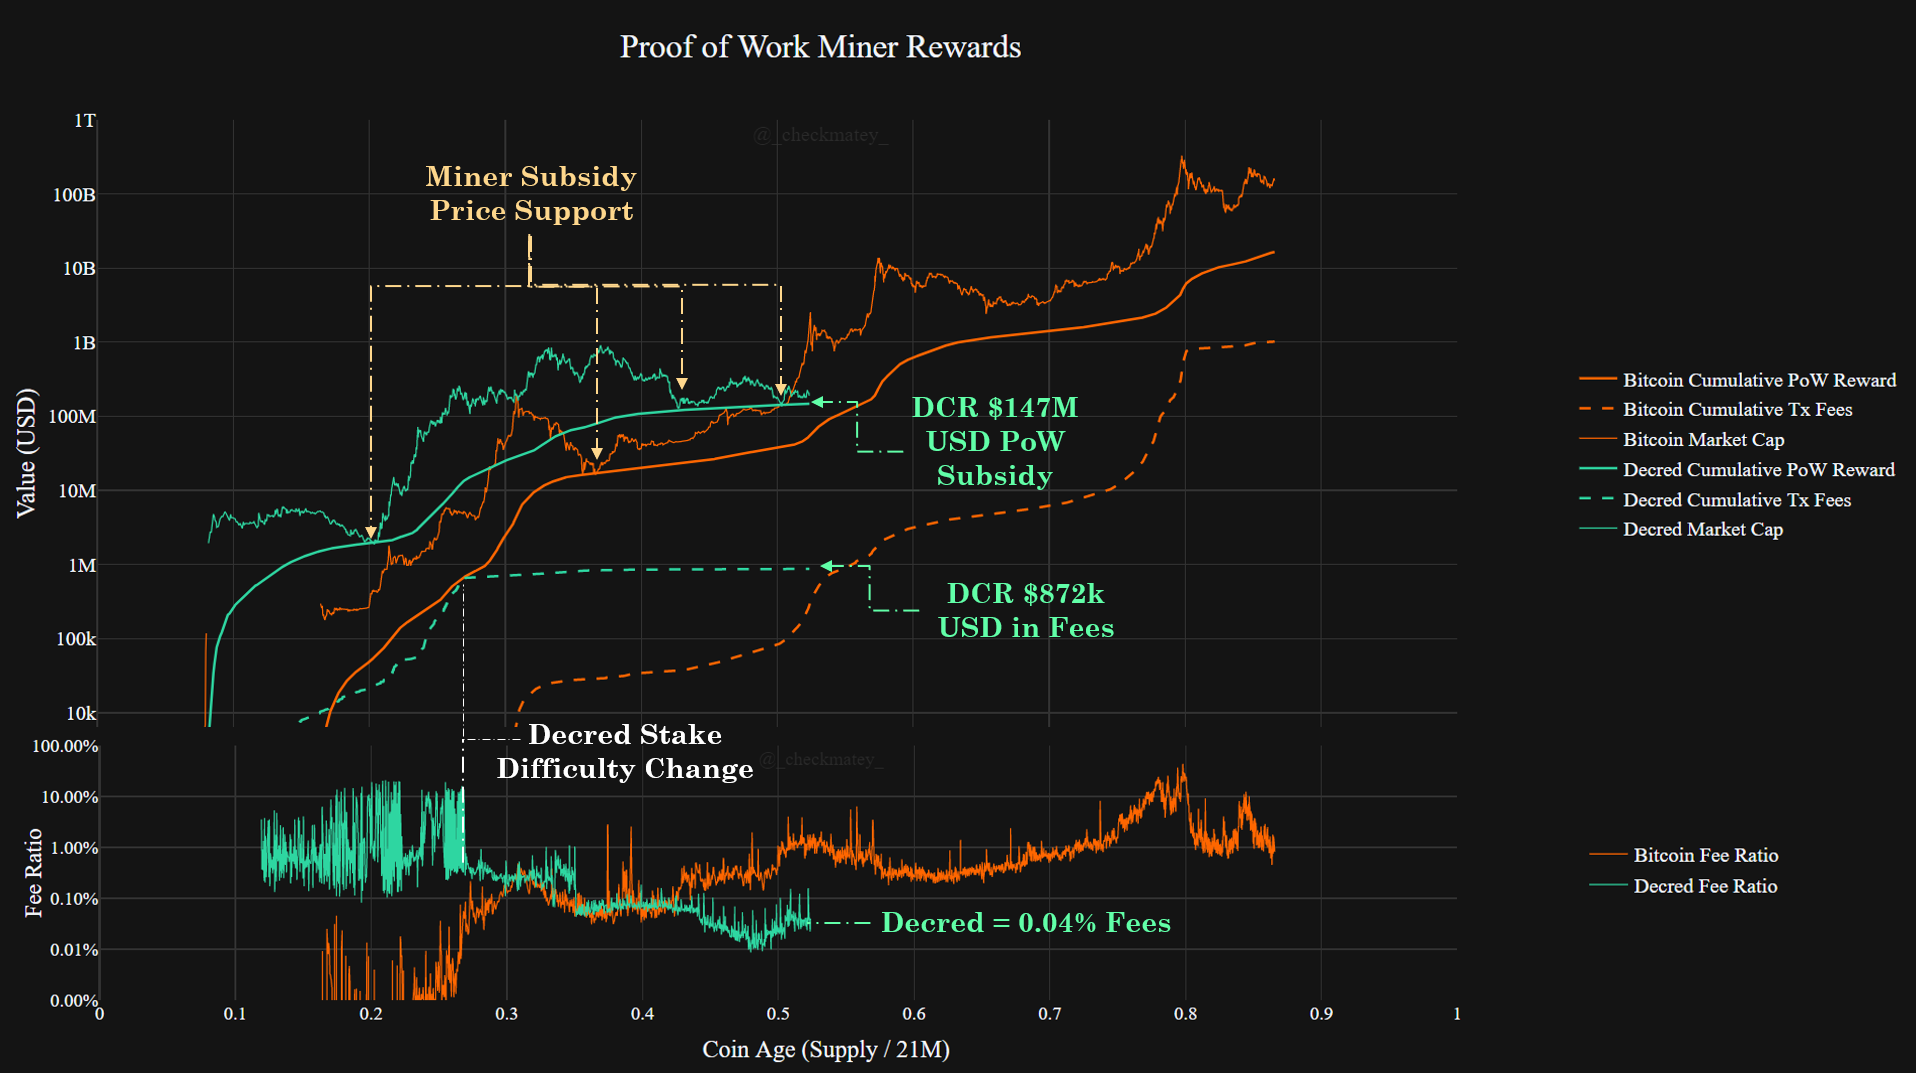
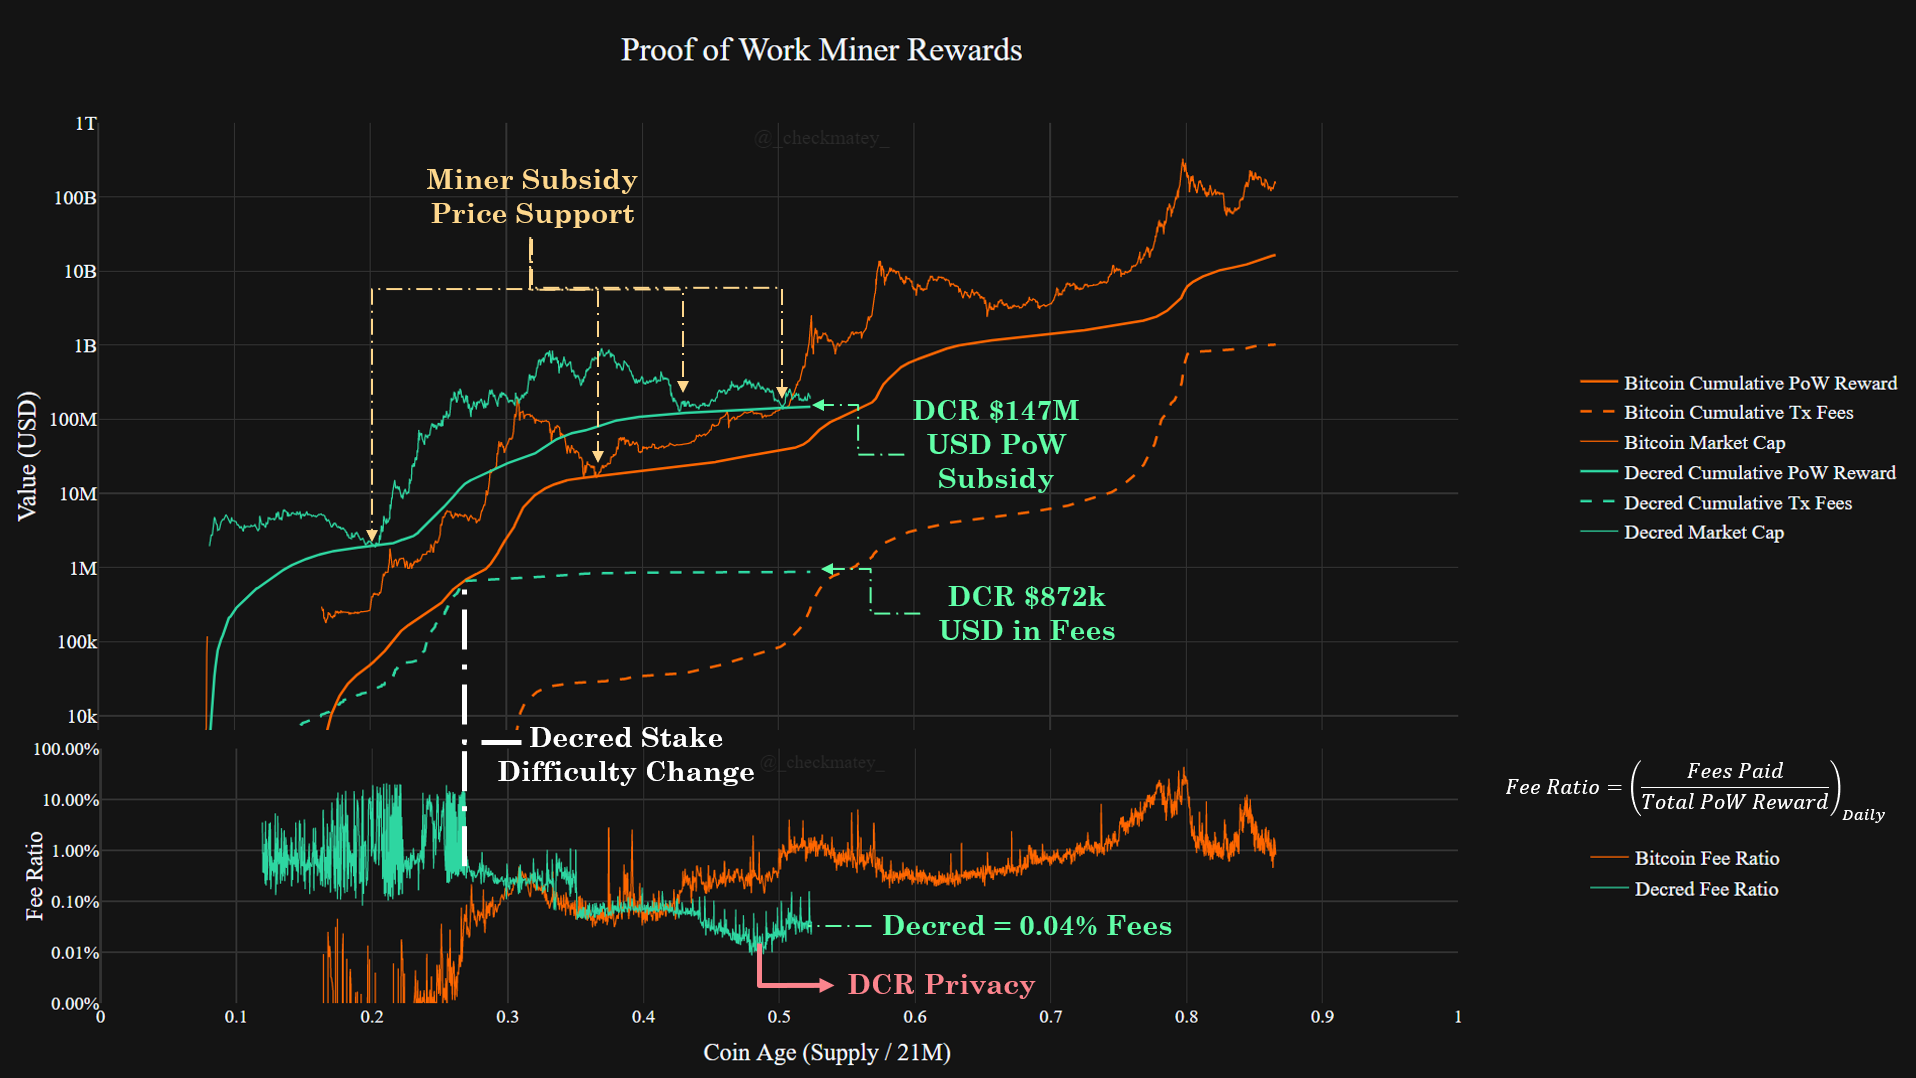
user adoption paper 70%

diff --git a/dcronchain/charts/chart_dcr_useradoption.py b/dcronchain/charts/chart_dcr_useradoption.py
@@ -581,9 +581,9 @@ DCR_hash = DCR_data[DCR_data['pow_hashrate_THs_avg']>1]
 
 loop_data = [[0,1,2,3],[4,5]]
 x_data = [
-    BTC_hash['age_sply'],DCR_hash['age_sply'],
-    BTC_hash['age_sply'],DCR_hash['age_sply'],
-    BTC_hash['age_sply'],DCR_hash['age_sply'],
+    BTC_hash['age_days'],DCR_hash['age_days'],
+    BTC_hash['age_days'],DCR_hash['age_days'],
+    BTC_hash['age_days'],DCR_hash['age_days'],
     ]
 y_data = [
     BTC_hash['DiffMean'],DCR_hash['DiffMean'],
@@ -623,7 +623,7 @@ title_data = [
     'Coin Age (Days since Launch)',
     'Protocol Difficulty  |  Network Hashrate (TH/s)',
     'Coin Price (USD)']
-range_data = [[0,1],[0,14],[-2,5]]
+range_data = [[0,4380],[0,14],[-2,5]]
 autorange_data = [False,False,False]
 type_data = ['linear','log','log']#
 fig = check_standard_charts().subplot_lines_doubleaxis(
@@ -632,7 +632,7 @@ fig = check_standard_charts().subplot_lines_doubleaxis(
     dash_data,width_data,opacity_data,legend_data
     )
 #Increase tick spacing
-fig.update_xaxes(dtick=0.1)
+fig.update_xaxes(dtick=365)
 
 """ =================================
     ADD DIFFICULTY RIBBON BAR CHARTS
@@ -640,7 +640,7 @@ fig.update_xaxes(dtick=0.1)
 for i in [9,14,25,40,60,90,128,200]:
     fig.add_trace(go.Scatter(
         mode='lines',
-        x=DCR_hash['age_sply'], 
+        x=DCR_hash['age_days'], 
         y=DCR_hash['DiffMean'].rolling(i).mean(),
         name='Difficulty '+str(i),
         opacity=0.5,
@@ -655,7 +655,7 @@ for i in [9,14,25,40,60,90,128,200]:
 for i in [9,14,25,40,60,90,128,200]:
     fig.add_trace(go.Scatter(
         mode='lines',
-        x=BTC_hash['age_sply'], 
+        x=BTC_hash['age_days'], 
         y=BTC_hash['DiffMean'].rolling(i).mean(),
         name='Difficulty '+str(i),
         opacity=0.5,
@@ -810,7 +810,7 @@ $$$$$$$$$$$$$$$$$$$$$$$$$$$$$$$$$$$$$$$$$$$$$$$$$$$$$$$$$$$$$$$$$$$$$$$$$$$$$
 
 """
 #############################################################################
-                    STAKEHOLDER TOTAL LOCKED IN TICKETS
+                    STAKEHOLDER TOTAL LOCKED IN TICKETS - USD
 #############################################################################
 """
 
@@ -870,8 +870,136 @@ fig = check_standard_charts().subplot_lines_singleaxis(
 fig.show()
 
 
+"""
+#############################################################################
+                    STAKEHOLDER TOTAL LOCKED IN TICKETS - BTC
+#############################################################################
+"""
+DCR_data = DCR_data.merge(BTC_data[['date','PriceUSD',]],on='date',how='left',suffixes=('', '_BTC'))
 
 
+loop_data = [[0,1,2,3,4],[]]
+x_data = [
+    DCR_data['date'],
+    DCR_data['date'],
+    DCR_data['date'],
+    DCR_data['date'],
+    DCR_data['date'],
+    ]
+y_data = [
+    DCR_data['SplyCur']*DCR_data['PriceBTC'],
+    DCR_data['tic_btc_cost'].cumsum(),
+    DCR_data['PoS_income_btc'].cumsum(),
+    DCR_data['PoW_income_btc'].cumsum(),
+    DCR_data['PriceRealUSD']/DCR_data['PriceUSD_BTC']*DCR_data['SplyCur'],
+    ]
+name_data = [
+    'Market Cap',
+    'Cumulative Ticket Lockup',
+    'Cumulative PoS Block Reward',
+    'Cumulative PoW Block Reward',
+    'Realised Cap',
+    ]
+color_data = [
+    'rgb(46, 214, 161)' ,   #Turquoise
+    'rgb(65, 191, 83)',     #Decred Green
+    'rgb(153, 51, 255)',    #PoS Purple
+    'rgb(250, 38, 53)' ,    #PoW Red
+    'rgb(239, 125, 50)',    #Price Orange
+    ]
+dash_data = [
+    'solid','solid','solid','solid','dot',
+    ]
+width_data = [
+    2,2,2,2,2
+    ]
+opacity_data = [
+    1,1,1,1,1
+    ]
+legend_data = [
+    True,True,True,True,True,
+    ]
+title_data = [
+    'Stakeholder Commitments in BTC',
+    'date',
+    'Value (BTC)',
+    '']
+range_data = [['2016-01-01','2021-01-01'],[3,6],[2,8]]
+autorange_data = [False,False,True]
+type_data = ['date','log','log']#
+fig = check_standard_charts().subplot_lines_singleaxis(
+    title_data, range_data ,autorange_data ,type_data,
+    loop_data,x_data,y_data,name_data,color_data,
+    dash_data,width_data,opacity_data,legend_data
+    )
+#Increase tick spacing
+#fig.update_xaxes(dtick=0.1)
+fig.show()
+
+
+"""
+#############################################################################
+                    TICKET METRICS
+#############################################################################
+"""
+
+loop_data = [[0,1,],[]]
+x_data = [
+    DCR_data['date'],
+    DCR_data['date'],
+    DCR_data['date'],
+    DCR_data['date'],
+    DCR_data['date'],
+    ]
+y_data = [
+    DCR_data['PriceUSD'],
+    DCR_data['CapTicPriceUSD'],
+    DCR_data['PoS_income_btc'].cumsum(),
+    DCR_data['PoW_income_btc'].cumsum(),
+    DCR_data['PriceRealUSD']/DCR_data['PriceUSD_BTC']*DCR_data['SplyCur'],
+    ]
+name_data = [
+    'Market Cap',
+    'Cumulative Ticket Lockup',
+    'Cumulative PoS Block Reward',
+    'Cumulative PoW Block Reward',
+    'Realised Cap',
+    ]
+color_data = [
+    'rgb(46, 214, 161)' ,   #Turquoise
+    'rgb(65, 191, 83)',     #Decred Green
+    'rgb(153, 51, 255)',    #PoS Purple
+    'rgb(250, 38, 53)' ,    #PoW Red
+    'rgb(239, 125, 50)',    #Price Orange
+    ]
+dash_data = [
+    'solid','solid','solid','solid','dot',
+    ]
+width_data = [
+    2,2,2,2,2
+    ]
+opacity_data = [
+    1,1,1,1,1
+    ]
+legend_data = [
+    True,True,True,True,True,
+    ]
+title_data = [
+    'Stakeholder Commitments in BTC',
+    'date',
+    'Value (BTC)',
+    'DCRUSD Price']
+range_data = [['2016-01-01','2021-01-01'],[3,6],[2,8]]
+autorange_data = [False,False,True]
+type_data = ['date','log','log']#
+fig = check_standard_charts().subplot_lines_singleaxis(
+    title_data, range_data ,autorange_data ,type_data,
+    loop_data,x_data,y_data,name_data,color_data,
+    dash_data,width_data,opacity_data,legend_data
+    )
+#Increase tick spacing
+#fig.update_xaxes(dtick=0.1)
+fig.show()
 
 
 

diff --git a/dcronchain/charts/chart_dcr_premine.py b/dcronchain/charts/chart_dcr_premine.py
@@ -11,8 +11,16 @@ DCR_real = dcr_add_metrics().dcr_real()
 blk_max = int(DCR_real['blk'][DCR_real.index[-1]])
 DCR_pre = dcr_supply_schedule(0).dcr_premine(DCR_real,blk_max)
 
+_data = [
+    ['2017-04-26',1e-10],['2017-04-26',1e10],
+    ['2017-09-13',1e10],['2017-09-13',1e-10],
+    ['2019-01-28',1e-10],['2019-01-28',1e10],
+    ['2019-09-05',1e10],['2019-09-05',1e-10],
+]
+DCR_consensus = pd.DataFrame(data=_data,columns=['date','y_arb'])
+DCR_consensus['date'] = pd.to_datetime(DCR_consensus['date'],utc=True)
 
-loop_data = [[0,1,2,3,4,5,6]]
+loop_data = [[0,1,2,3,],[7,8]]#4,5,6
 x_data = [
     DCR_pre['date'],
     DCR_pre['date'],
@@ -20,7 +28,9 @@ x_data = [
     DCR_pre['date'],
     DCR_pre['date'],
     DCR_pre['date'],
-    DCR_pre['date']
+    DCR_pre['date'],
+    DCR_pre['date'],
+    DCR_consensus['date']
 ]
 y_data = [
     DCR_pre['PoWSply_ideal']/DCR_pre['Sply_ideal'],
@@ -29,7 +39,9 @@ y_data = [
     DCR_pre['dcr_tic_sply_avg']/DCR_pre['Sply_ideal'],
     DCR_pre['pmine_c0']/DCR_pre['Sply_ideal'],
     DCR_pre['c0_spent_pos']/DCR_pre['Sply_ideal'],
-    DCR_pre['com_spent_pos']/DCR_pre['Sply_ideal']
+    DCR_pre['com_spent_pos']/DCR_pre['Sply_ideal'],
+    DCR_real['PriceUSD'],
+    DCR_consensus['y_arb']
 ]
 
 name_data = [
@@ -39,7 +51,9 @@ name_data = [
     'Ticket Pool Supply',
     'Founder Total Premine',
     'Founder Spent Premine w/ Staking (46%)',
-    'Community Spent Premine w/ Staking (54%)'
+    'Community Spent Premine w/ Staking (54%)',
+    'DCRUSD Price',
+    'Consensus Change Votes'
 ]
 color_data = [
     'rgb(250, 38, 53)' ,
@@ -48,23 +62,27 @@ color_data = [
     'rgb(20, 169, 233)',
     'rgb(239, 125, 50)',
     'rgb(239, 125, 50)',
-    'rgb(1, 255, 116)'
+    'rgb(1, 255, 116)',
+    'rgb(255, 255, 255)',
+    'rgb(46, 214, 161)'
 ]
-width_data = [2,2,2,2,2,2,2]
-dash_data = ['solid','solid','solid','solid','solid','dot','dot']
-opacity_data = [1,1,1,1,1,1,1]
-legend_data = [True,True,True,True,True,True,True]
+width_data = [2,2,2,2,2,2,2,1,1]
+dash_data = ['solid','solid','solid','solid','solid','dot','dot','dot','dash']
+opacity_data = [1,1,1,1,1,1,1,0.6,0.6]
+legend_data = [True,True,True,True,True,True,True,True,True]
 
 title_data = [
-    "Decred Supply Characteristics and Premine",
+    'Decred Supply Curves and Ticket Pool',
+    #"Decred Supply Characteristics and Premine",
     "<b>Date</b>",
-    "<b>Portion of DCR Circulating Supply</b>"
+    "<b>Portion of DCR Circulating Supply</b>",
+    "<b>DCRUSD Price</b>",
     ]
-range_data = [[0,1],[0,0.5]]
-type_data = ['date','linear']
-autorange_data = [True,False]
+range_data = [[0,1],[0,0.6],[-1,3]]
+type_data = ['date','linear','log']
+autorange_data = [True,False,False]
 
-fig = check_standard_charts().subplot_lines_singleaxis(
+fig = check_standard_charts().subplot_lines_doubleaxis(
     title_data, range_data ,autorange_data ,type_data,
     loop_data,x_data,y_data,name_data,color_data,
     dash_data,width_data,opacity_data,legend_data,

diff --git a/research_articles/dcr_useradoption/dcr_useradoption.md b/research_articles/dcr_useradoption/dcr_useradoption.md
@@ -141,16 +141,99 @@ Decred has an approximately equal network valuation to Bitcoin at the same age w
 
 # 2) The Unforgeable Work of DCR Miners
 
-Proof-of-Work miners are integral to the security, decentralisation and immutability of the Decred blockchain. Miners are responsible for building the blockchain by cryptographically hashing valid transactions into blocks. The investment by miners into mining hardware CAPEX and OPEX is a fundamental component of the security system. 
+Proof-of-Work miners are integral to the security, decentralisation and immutability of the Decred blockchain. Miners are responsible for building the chain through cryptographically hashing valid transactions into blocks before presenting them for validated by PoS tickets.
 
+Miners invest in hardware CAPEX and establish long term energy contracts to provide this service which secured the blockchain through a number of unforgeable mechanisms:
+
+- Creates a financial and logistical hurdle for potential attackers to overcome to aquire sufficient hash-rate and energy to build an competitive side-chain.
+- Investment in Application Specific Integrated Circuits (ASICs) create an incentive for honest miners to defend their sunk-cost CAPEX. This aligns miner incentives with the users and success of the Decred blockchain.
+- Proof-of-Work roots the cost of block creation to a demand for energy which cannot be forged.
+- The globally competitive market for energy leads to widely distributed mining operations in pursuit of favourable combinations of energy sources and contracts, hardware manufacturing, climates and regulatory jurisdictions. This promotes geographical distribution of mining operations to provide system redundancy.
+
+## Growth of Hash-rate
+
+Decred launched into the 2016 market where GPU miners were readily available. Decred thus had an initial difficulty setting equivalent to the hashpower of 256 contemporary GPUs. Decred mining has since progressed to become an ASIC dominated chain as of early 2018 [[1](https://youtu.be/7K2sDhyjQys)], [[2](https://youtu.be/8TPFIVYy_i4)]. Since ASICs have come on-line, the Decred hash-rate has expanded by 1,000x with most growth occuring over a one year period from 2018 to 2019.
+
+The Decred hash-rate currently fluctuates between 400-500 PetaHash/s, similar to that of Bitcoin in 2015. Decred hash-rate has remained relatively stable since early 2019 in response to depression of the DCRUSD price during the bear market cycle.
 
 ![miner_pow_growth.png](images/miner_pow_growth.png)
 
+The Decred difficulty ribbon is presented in the chart above by taking a series of daily moving averages (9,14,25,40,60,90,128 and 200 periods) of protocol mining difficulty. The difficulty ribbon provides insight into the aggregate behaviour of miners. This shows that Decred has experienced four distinct phases of the mining cycle throughout its four year lifespan, summarised in the table below.
+
+![miner_character.png](images/miner_character.png)
+
+It can be seen that there are remarkable similarities in the growth rate of hash-power between Decred from year 0 to 4 compared to Bitcoin from year 3 to 6. What is notable is the coupling between Bitcoin price and hash-rate trends. Re-expansion of the Bitcoin difficulty ribbon tends to follow price appreciation during bull markets and, conversely, compresses following the capitulation phase at the end of bear markets.  
+
+For Decred, ASICs were introduced to the network at the peak of what became a significant and industry wide bear market (starting early 2018). Thus Decred has experienced a process of hash-rate expansion due to improved hardware efficiency (supersceding GPUs) without the support of coin price appreciation.
+
+As such, it is likely that the present cohort of ASIC miners have endured challenging financial conditions, particularly through 2019 as seen by the current compression of the Difficulty ribbon as miners turn off unprofitable hardware. Similarly, it is reasonable to conclude that miners will require sustained DCR price appreciation to justify further investment in hardware CAPEX or upgrades.
+
+Assuming a bear market price floor has been found at the time of writing, the Decred hash-rate and mining difficulty will likely remain rangebound at currently levels until this price threshold is passed.
+
+## Miner Income
+
+We can establish a basis for aggregate miner behaviour by reviewing the [cumulative block rewards](https://medium.com/@permabullnino/decred-on-chain-a-look-at-block-subsidies-6f5180932c9b) paid to miners (incl. subsidy and fees). Decred has paid miners over $147M in PoW rewards with $875k of this attributed to transaction fees (0.595%).
+
+Long term development of a fee market is a critical evolution to sustain a fixed maximum coin supply of 21M units. Whilst early in Decred's life, the ratio of daily transaction fees as a proportion of the total block reward shows Decred fees account for 0.04% of miner income. Similar to block-space utility, the Decred privacy implementation has shown a positive feature for miner incomes and the fee ratio.
+
+Of note is the distinct plateau in cumulative transaction fees paid after July 2017. This is a direct result of the consensus rule change to [replace the original stake-difficulty algorithm](https://medium.com/decred/new-stake-difficulty-algorithm-cdf432d623fe) which had a natural resonance in the ticket price. This led to 'fee wars' by users attempting to aquire tickets during price troughs and an overall poor user experience. This consensus rule change [passed a governance vote with 97.9% approval](https://explorer.dcrdata.org/agenda/sdiffalgorithm) despite being clearly against miner short term interest.
+
+There are two mechanisms which would lead to this vote result, both of which the author deems positive outcomes for the Decred project and governance system:
+
+- Miners are freely able to stake mined coins, and during the 2017 bull market, this was a profitable strategy. Thus miners holding tickets still voted in favor of long term user experience rather than in their own short term financial interest. This suggests sound alignment of miner values with those of the rest of the community.
+- Mining was dominated by dual Ethereum GPU miners in 2017, whom are generally believed to have distributed DCR coins almost immediately to exchanges for sale. Thus, miners would not have a significant say in the vote and indicates a wide coin distribution into the public has occured which enhances vote decentralisation.
+
+![miner_stakediff.png](images\miner_stakediff.png)
+
+An additional observation pertaining to the cumulative miner rewards paid is the notion of miners 'putting the bottom in' for bear markets. Given this represents the aggregate income of the mining industry, where network valuation falls below this level, it can indicate mining is becoming increasingly unprofitable on aggregate.
+
+This leads to weaker miners disabling mining rigs, a compression of the difficulty ribbon and an increased share of hash-rate gained by stronger miners. Given strong miner stategy tends to focus on accumulation of coins in bullish markets, this begins to constrain the available supply entering the market and has shown to preceed price appreciation and bullish conditions for both Bitcoin and Decred in the past. 
+
 ![miner_pow_rewards.png](images/miner_pow_rewards.png)
+
+## Summary of Proof-of-Work Miners
+
+Decred mining is dominated by ASIC hardware and has experienced significant growth in hash-rate despite bear market conditions since 2018. It is likely that miners have been tested by challenging financial conditions and poor profitability as a result which sheds light on mechanisms behind DCR price performance since all-time-highs.
+
+That said, the difficulty ribbon and cumulative rewards paid to miners are exhibiting typical basing patterns seen in other proof-of-work coins like Bitcoin. A notable increase in demand for block-space is seen following the launch of Decred's privacy mixing technology, carrying a net positive impact on the fee ratio and long term sustainability. 
 
 # 3) The Strong Hands of DCR Stakeholders
 
+Long-term holding of DCR is distictly different to many other cryptocurrencies in that it promotes the continual movement of coins in the form of PoS tickets. The purchase of a ticket ([or part thereof](https://docs.decred.org/proof-of-stake/ticket-splitting/)) is an explicit and deliberate act to bind a quantity of the stakeholders DCR coins, in an illiquid state, to the performance of the Decred network.
 
+[Tickets undergo a process](https://docs.decred.org/proof-of-stake/overview/) of maturation, psuedo-random selection to vote and then a delay before coins are released. The whole process can take anywhere between 1.5 and 142days. Ticket stakeholders are thus exposed to coin price volatility and market reaction to any consensus or governance votes during that window.
+
+In reward for their patience, resilience and taking on price risk, stakeholders are rewarded with 30% of the block reward, split between the five tickets selected to vote on each block.
+
+This process gamifies the participation in Decred governance whilst also promoting active participation and a desire to 'choose wisely' for governance and consensus decisions.
+
+## Hodler Psychology
+
+DCR holders are free to opt-out and sell their coins into the market at any time when their coins are not bound in tickets. Thus, all ticket purchases carry an underlying assumption, that the individual believes the ticket price plus block reward will be more valuable in the future than today.
+
+In other words, if a holder believes obtaining the PoS block reward is not worth the volatility risk, they are better off holding liquid DCR coins or to sell them, rather than take on price risk for a psuedo-random period of time.
+
+This is a very different mechanism to Bitcoin holders who will typically move BTC coins they believe to be undervalued into deep cold storage without moving them. The team at [Coinmetrics developed the Realised Price](https://coinmetrics.io/realized-capitalization/) to quantify this behaviour.
+
+The Realised Price measures the aggregate value of each UTXO, priced at the time it last moved. It thus represents an aggregate view on the market cost-basis for BTC coins and a lower bound on what long-term holders believe the Bitcoin network is worth.
+
+For Decred, the realised price is more closely correlated with market value as it is influenced by the continual flow of DCR in tickets. Thus, this metric does not adhere to the same set of assumptions and instead has shown to be a point of market support and resistance in bull and bear markets respectively.
+
+## Stakeholder Commitment
+
+Rational market actors are more likely to sell DCR when they believe coins are overvalued, rather than buy tickets and take on volatility risk. By taking a cumulative sum of all DCR bound in tickets, priced at the time of purchase, we can establish a measure of stakeholder 'commitment' to the Decred chain. This represents the aggregate dollar value locked in tickets.
+
+To date, Decred stakeholders have committed over $5.6 Billion in value to the chain in ticket purchases, approximately 38x the market cap of the entire network at the time of writing.
+
+Interestingly, this psychological stakeholder commitment line has acted as a point of price resistance during the 2017 bull trend. Conversely, PoW miners cannot be expected to commit more hash-power investment than is allowed for in the block reward. The cumulative miner income line has thus shown to be a level of fundamental support during bearish trends.
+
+![staker_cumulative_usd.png](images/staker_cumulative_usd.png)
+
+
+
+![staker_cumulative_btc.png](images/staker_cumulative_btc.png)
+
+![staker_ticket_pool.png](images/staker_ticket_pool.png)
 
 # 4) The Skill and Time of DCR Architects
 
